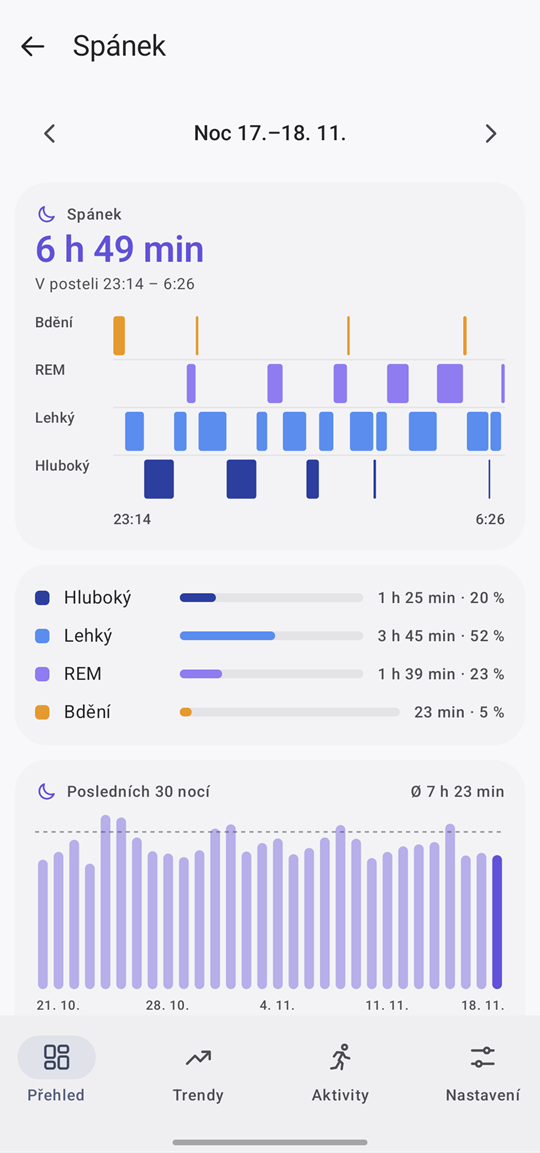
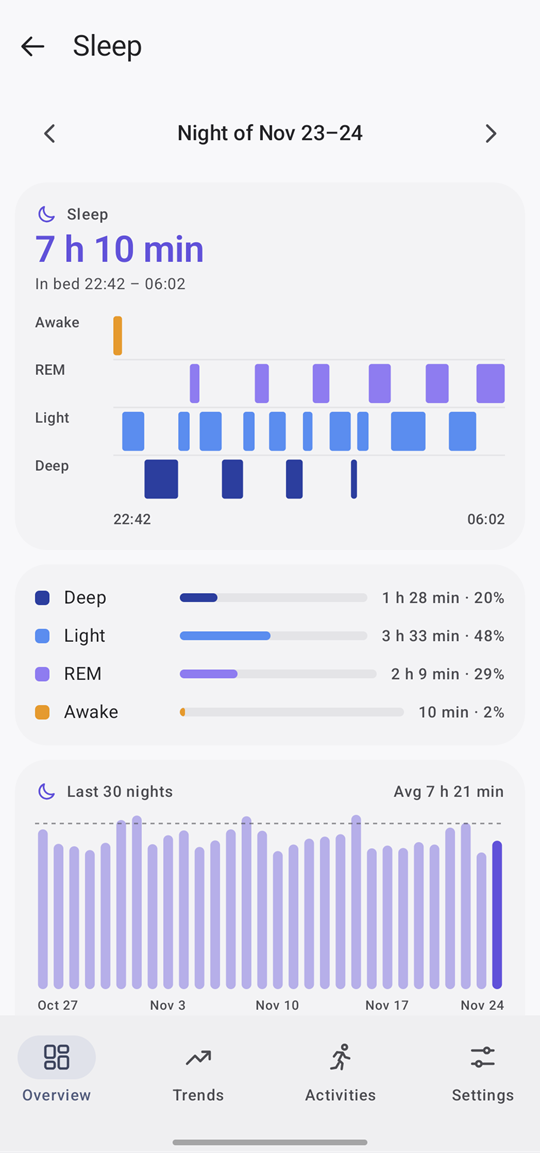
Release 0.2.0: signed release build, English README
- Version 0.2.0 (versionCode 2).
- Release builds are signed from the developer's own ~/.gradle/gradle.properties;
  without it, assembleRelease stays unsigned. Keystores are git-ignored.
- README: English screenshots and UI names, install from GitHub Releases,
  update and signing notes, i18n package.
- Release notes for v0.2.0.

diff --git a/README.md b/README.md
@@ -10,9 +10,10 @@ It reads only the data that the Garmin Connect app already shares with **Android
 ![Kotlin](https://img.shields.io/badge/Kotlin-2.4-7F52FF?logo=kotlin&logoColor=white)
 ![Jetpack Compose](https://img.shields.io/badge/Jetpack%20Compose-Material%203-4285F4?logo=jetpackcompose&logoColor=white)
 ![Health Connect](https://img.shields.io/badge/Health%20Connect-read--only-0B57D0)
+[![Latest release](https://img.shields.io/github/v/release/Duchic/HealthWidgy)](https://github.com/Duchic/HealthWidgy/releases/latest)
 
 > [!NOTE]
-> The app speaks English and Czech: it follows the phone's language, or you pick one in Settings. The screenshots show the Czech interface with **generated demo data**, not a real person's health data (see [Demo build](#demo-build)).
+> The app speaks English and Czech: it follows the phone's language, or you pick one in Settings. The screenshots show the English interface with **generated demo data**, not a real person's health data (see [Demo build](#demo-build)).
 
 <table>
   <tr>
@@ -30,7 +31,7 @@ It reads only the data that the Garmin Connect app already shares with **Android
 ## Features
 
 ### Today
-The **Přehled** (Overview) tab reads Health Connect live while the app is open.
+The **Overview** tab reads Health Connect live while the app is open.
 
 - **Steps ring:** progress toward your step goal, with distance, floors and total calories next to it.
 - **Tiles:**
@@ -41,7 +42,7 @@ The **Přehled** (Overview) tab reads Health Connect live while the app is open.
 - **Latest workout** of the last 30 days.
 - **Steps over the last 7 days**, with the goal line.
 - **Distance and floors**, each with its goal (optional cards).
-- **Your own layout:** the edit button in the header (*Upravit přehled*) sets which cards the tab shows, in which order, and whether each is half width (two side by side) or spans the width. Two half cards side by side always have the same height.
+- **Your own layout:** the edit button in the header (*Edit overview*) sets which cards the tab shows, in which order, and whether each is half width (two side by side) or spans the width. Two half cards side by side always have the same height.
 - **Data freshness:** a source pill shows when Garmin last wrote data. Pull down to refresh.
 
 ### History
@@ -66,19 +67,19 @@ Thirteen widgets built with Jetpack Glance, from 1×1 to 4×2. Nine of them let 
 
 | Widget | Size | What it shows | You choose |
 |---|---|---|---|
-| Today's overview *(Dnešní přehled)* | 4×2 | A goal ring and four values | The ring and all four values |
-| Multiple values *(Více hodnot)* | 4×1 | Two to four values side by side, adapting to the size | Up to four values |
-| Ring *(Kroužek)* | 2×2 | One goal with its percentage | Steps, distance, floors or sleep |
-| Small ring *(Malý kroužek)* | 1×1 | One goal ring with its icon and value | Steps, distance, floors or sleep |
-| Goal rings *(Kroužky cílů)* | 2×2 | Three concentric goal rings | Each ring |
+| Today | 4×2 | A goal ring and four values | The ring and all four values |
+| Multiple values | 4×1 | Two to four values side by side, adapting to the size | Up to four values |
+| Ring | 2×2 | One goal with its percentage | Steps, distance, floors or sleep |
+| Small ring | 1×1 | One goal ring with its icon and value | Steps, distance, floors or sleep |
+| Goal rings | 2×2 | Three concentric goal rings | Each ring |
 | Trend | 4×2 | A bar or line chart with the average | Metric; 7, 14 or 30 days |
-| Goal calendar *(Kalendář cíle)* | 4×2 | The last 5 weeks, day by day, shaded by goal completion | Steps, distance, floors or sleep |
-| Single value *(Jedna hodnota)* | 2×1 | One value in large type | Any of the 9 metrics |
-| Small value *(Malá hodnota)* | 1×1 | An icon, a value and its unit | Any of the 9 metrics |
-| Sleep *(Spánek)* | 4×2 | Last night's duration, times and stages | Look only |
-| Heart *(Srdce)* | 2×2 | Resting heart rate and its 7-day trend | Look only |
-| Heart rate today *(Tep dnes)* | 4×2 | Today's heart rate hour by hour | Look only |
-| Latest activity *(Poslední aktivita)* | 4×1 | The latest workout | Look only |
+| Goal calendar | 4×2 | The last 5 weeks, day by day, shaded by goal completion | Steps, distance, floors or sleep |
+| Single value | 2×1 | One value in large type | Any of the 9 metrics |
+| Small value | 1×1 | An icon, a value and its unit | Any of the 9 metrics |
+| Sleep | 4×2 | Last night's duration, times and stages | Look only |
+| Heart | 2×2 | Resting heart rate and its 7-day trend | Look only |
+| Heart rate today | 4×2 | Today's heart rate hour by hour | Look only |
+| Latest activity | 4×1 | The latest workout | Look only |
 
 You can choose from 9 metrics: steps, calories, distance, floors, resting heart rate, sleep, weight, heart rate in the last hour and body fat.
 
@@ -87,7 +88,7 @@ You can choose from 9 metrics: steps, calories, distance, floors, resting heart 
   - about once an hour;
   - when the app opens;
   - when you pull down on the Today screen;
-  - when you tap ↻ on the *Today's overview* or *Heart rate today* widget.
+  - when you tap ↻ on the *Today* or *Heart rate today* widget.
 - **Theme:**
   - By default all widgets follow *Settings → Appearance → Widgets*: the system, light or dark.
   - Each widget can override that with its own look (system, light or dark), for example a dark widget on a phone in light mode.
@@ -98,10 +99,10 @@ You can choose from 9 metrics: steps, calories, distance, floors, resting heart 
 - **Daily goals** for steps, distance, floors and sleep. Garmin does not share its goals with Health Connect, so you set them here.
 - **Appearance:** System, Light or Dark, set separately for the app and for the widgets. A single widget can also have its own look.
 - **Language:** System, Čeština or English. It is Android's per-app language, so it also appears in the phone's app settings; the widgets follow it too.
-- **Widgets:** add any widget from inside the app and edit the ones already placed.
+- **Home screen widgets:** add any widget from inside the app (if the launcher supports it) and edit the ones already placed.
 - **Data source:** Garmin Connect only (the default) or all apps in Health Connect.
 - **Permissions:** how many data types are allowed and whether background reading and older data are on, with buttons to ask for what is missing.
-- **Data inventory** *(Data v Health Connect)*: what each data type contains over the last 30 days, for example sources, devices, sample spacing and whether it is allowed.
+- **Data inventory** *(Data in Health Connect)*: what each data type contains over the last 30 days, for example sources, devices, sample spacing and whether it is allowed.
 
 ## Where the data comes from
 
@@ -129,7 +130,7 @@ flowchart LR
 4. **A local cache feeds the history and widgets.** The first sync loads 30 days, or a full year with the history permission. Later syncs refresh the last few days, on app start and hourly in the background.
 
 ### What Garmin does not share
-Health Connect has no place for some Garmin data, so the app cannot show it:
+Garmin Connect does not write some of its data to Health Connect (and some of it has no Health Connect type at all), so the app cannot show it:
 - HRV, stress and Body Battery;
 - sleep score;
 - routes and splits;
@@ -148,11 +149,18 @@ Health Connect has no place for some Garmin data, so the app cannot show it:
 - **Recommended:** allow *background reading* and *older data* when HealthWidgy asks.
 
 ## Install
-There is no Play Store release; this is a personal project.
+There is no Play Store release; this is a personal project. Each version is published on the [Releases](https://github.com/Duchic/HealthWidgy/releases) page as a signed APK.
 
-1. Build the APK from source (below).
-2. Install it with `adb`.
+1. Download `HealthWidgy-<version>.apk` from the [latest release](https://github.com/Duchic/HealthWidgy/releases/latest) on the phone.
+2. Open it and allow your browser or file manager to install unknown apps when Android asks.
 3. On first start, a setup checklist walks you through Health Connect, Garmin Connect and the permissions.
+
+**Updating:** install the newer APK over the old one; settings and the local cache stay.
+
+**If you built the app yourself before:** a copy of `cz.healthwidgy` you built yourself (the debug build, or a release signed with your own key) is signed with a different key, so Android refuses to update it from a release APK (and the other way round). Uninstall it first. Its settings, placed widgets and local cache go with it, and the setup asks for the permissions again, but the data in Health Connect is not affected. The demo build (`cz.healthwidgy.demo`) is a separate app and can stay.
+
+**Signing certificate** (SHA-256), to check a download with `apksigner verify --print-certs`:
+`C2:5A:F6:25:CA:D2:B5:AD:23:1D:B2:E1:E8:55:F8:BF:0F:5C:61:C5:EB:35:A5:97:2B:DE:77:2A:49:DA:20:44`
 
 ## Build from source
 **You need:** JDK 17 or newer, and the Android SDK with platform 37. Set its path with `ANDROID_HOME` or in `local.properties`.
@@ -162,7 +170,9 @@ There is no Play Store release; this is a personal project.
 adb install -r app/build/outputs/apk/debug/app-debug.apk
 ```
 
-**Unit tests:** run on the JVM (`app/src/test`). They cover formatting, the history helpers and the widget logic.
+**Release build:** `./gradlew assembleRelease` signs the APK only when your own `~/.gradle/gradle.properties` defines `healthwidgy.release.storeFile`, `healthwidgy.release.storePassword`, `healthwidgy.release.keyAlias` and `healthwidgy.release.keyPassword`. Without them, it builds an unsigned APK. No signing key or password is kept in this repository.
+
+**Unit tests:** run on the JVM (`app/src/test`). They cover formatting, the history helpers, the Overview layout and data, and the widget logic.
 
 **Maven mirror:** `settings.gradle.kts` resolves Maven Central through Google's public mirror instead of `mavenCentral()`. It works from anywhere. You can switch it back if you prefer.
 
@@ -191,6 +201,7 @@ Debug and demo builds also include an adb-only dump tool (`DebugDumpReceiver`) f
 ```
 app/src/main/kotlin/cz/healthwidgy/
 ├── data/      Health Connect access, Room cache, sync engine, settings
+├── i18n/      English and Czech: the language setting and the tr(cs, en) helper
 ├── ui/        Compose screens: overview, history, settings, setup, inventory
 └── widget/    Glance widgets, widget configuration, rendering
 app/src/debug/ adb-only tools: data dumps, widget gallery
@@ -220,7 +231,7 @@ app/src/test/  JVM unit tests
 - **Garmin's data only:** the app shows only what Garmin Connect writes to Health Connect.
 - **Not real time:** widgets refresh about once an hour.
 - **Background permission needed:** without it, widgets refresh only when you open the app.
-- **No signed release build yet.**
+- **Manual updates:** there is no store, so a new version means downloading the next APK from Releases.
 
 ## License
 No license has been chosen yet, so all rights are reserved by the author.

diff --git a/docs/release-notes/v0.2.0.md b/docs/release-notes/v0.2.0.md
@@ -1,0 +1,17 @@
+The first published release of HealthWidgy: your Garmin data from Health Connect on the Android home screen, with a Today dashboard, history screens and 13 widgets. Requires Android 14 or newer.
+
+### Install
+Download **HealthWidgy-0.2.0.apk** below on your phone, open it and allow the install. On first start, a setup checklist walks you through Health Connect, Garmin Connect and the permissions.
+
+If you built and installed HealthWidgy yourself before, uninstall that copy first: it is signed with a different key, so Android refuses to install this APK over it ("App not installed"). Uninstalling also removes the app's settings, its widgets on the home screen and its Health Connect permissions, so the setup checklist runs again and you add the widgets again. Your data in Health Connect is not affected.
+
+### New in 0.2.0
+- **English and Czech.** The app follows the phone's language, or you pick System, Čeština or English in *Settings → Language*. Numbers, dates and the widgets follow the choice too.
+- **Your own Overview.** The edit button at the top of the Overview tab, next to refresh, opens *Edit overview*: which cards the tab shows, in which order, and whether each is half or full width. Two half cards side by side always have the same height.
+- **Richer full-width cards:** heart rate with the day's hourly chart, sleep with its stages over the night, calories with the last 7 days and weight with the last 30 days.
+- **Distance and floors cards**, each with its goal; at full width they also show the last 7 days. They are not on the Overview by default: add them in *Edit overview* under *Add a card*.
+- **Two 1×1 widgets:** *Small ring* (one goal) and *Small value* (any metric with its icon).
+- **A look for each widget.** Any widget can be light or dark regardless of the phone, for example a dark widget on a light home screen.
+
+The APK is signed with the HealthWidgy release key. Later versions are signed with the same key, so they install over this one.
+Signing certificate SHA-256: `C2:5A:F6:25:CA:D2:B5:AD:23:1D:B2:E1:E8:55:F8:BF:0F:5C:61:C5:EB:35:A5:97:2B:DE:77:2A:49:DA:20:44` (check with `apksigner verify --print-certs HealthWidgy-0.2.0.apk`).
